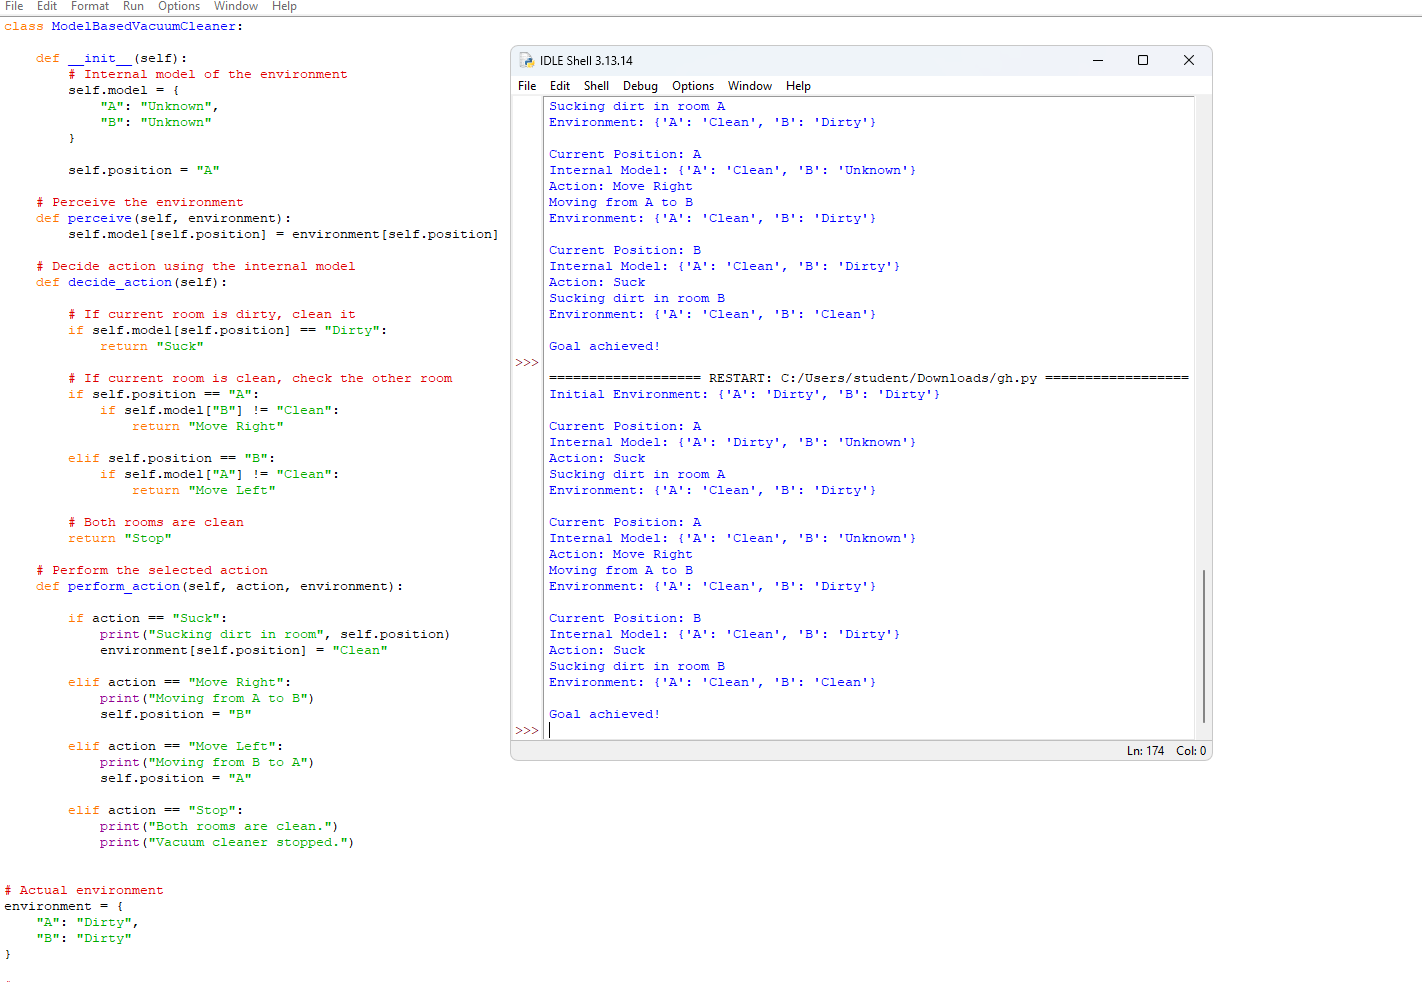
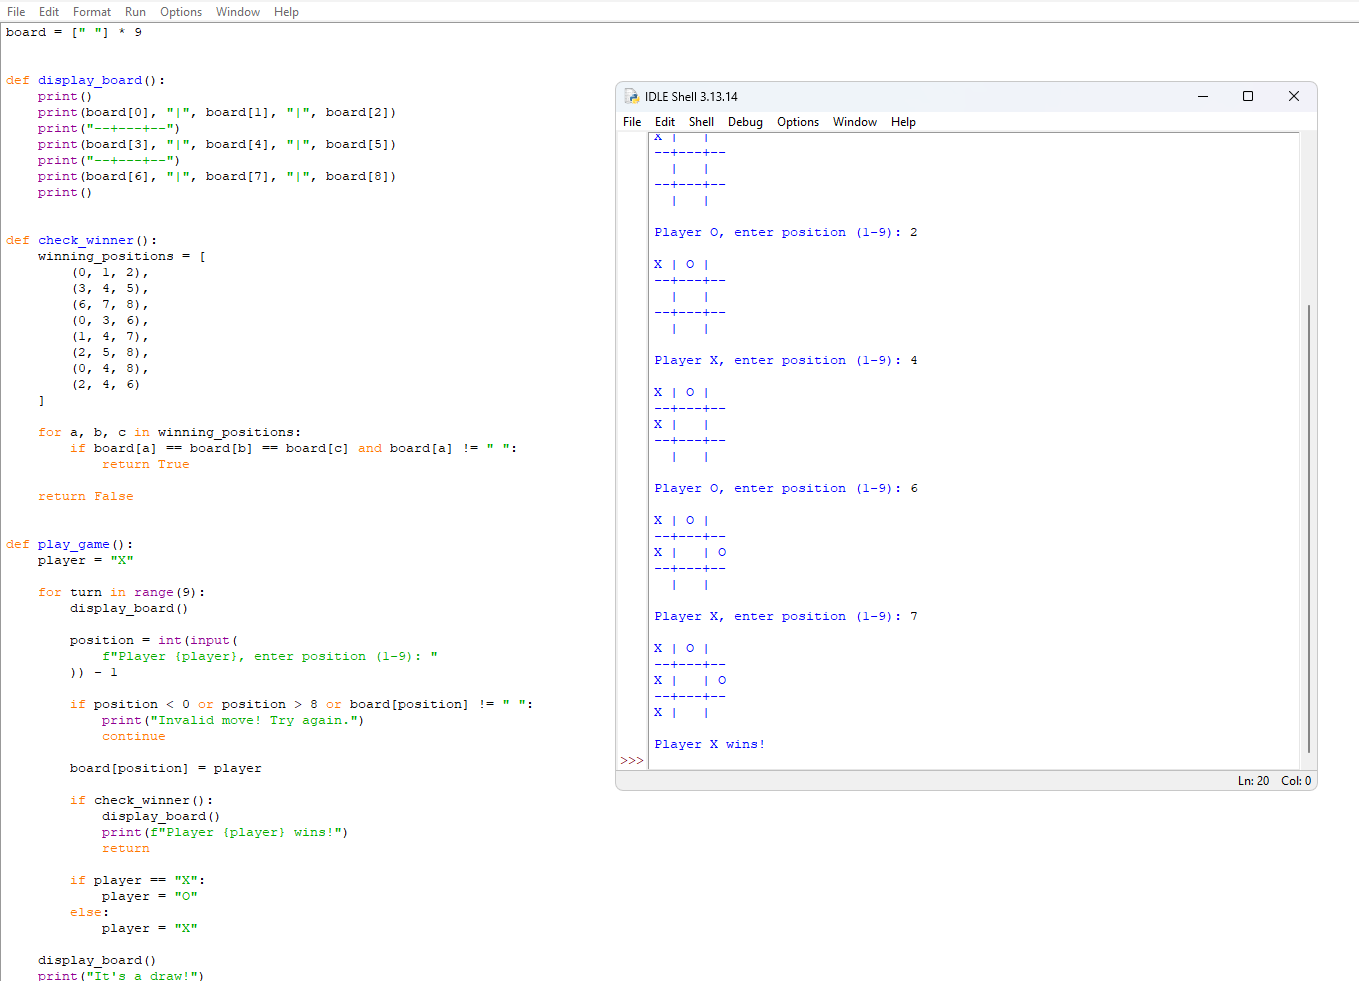
Add files via upload

diff --git a/modelbased.py b/modelbased.py
@@ -1,0 +1,90 @@
+class ModelBasedVacuumCleaner:
+
+    def __init__(self):
+        # Internal model of the environment
+        self.model = {
+            "A": "Unknown",
+            "B": "Unknown"
+        }
+
+        self.position = "A"
+
+    # Perceive the environment
+    def perceive(self, environment):
+        self.model[self.position] = environment[self.position]
+
+    # Decide action using the internal model
+    def decide_action(self):
+
+        # If current room is dirty, clean it
+        if self.model[self.position] == "Dirty":
+            return "Suck"
+
+        # If current room is clean, check the other room
+        if self.position == "A":
+            if self.model["B"] != "Clean":
+                return "Move Right"
+
+        elif self.position == "B":
+            if self.model["A"] != "Clean":
+                return "Move Left"
+
+        # Both rooms are clean
+        return "Stop"
+
+    # Perform the selected action
+    def perform_action(self, action, environment):
+
+        if action == "Suck":
+            print("Sucking dirt in room", self.position)
+            environment[self.position] = "Clean"
+
+        elif action == "Move Right":
+            print("Moving from A to B")
+            self.position = "B"
+
+        elif action == "Move Left":
+            print("Moving from B to A")
+            self.position = "A"
+
+        elif action == "Stop":
+            print("Both rooms are clean.")
+            print("Vacuum cleaner stopped.")
+
+
+# Actual environment
+environment = {
+    "A": "Dirty",
+    "B": "Dirty"
+}
+
+# Create vacuum cleaner
+vacuum = ModelBasedVacuumCleaner()
+
+print("Initial Environment:", environment)
+print()
+
+# Continue until both rooms are clean
+while True:
+
+    # 1. Perceive
+    vacuum.perceive(environment)
+
+    print("Current Position:", vacuum.position)
+    print("Internal Model:", vacuum.model)
+
+    # 2. Decide
+    action = vacuum.decide_action()
+
+    print("Action:", action)
+
+    # 3. Perform action
+    vacuum.perform_action(action, environment)
+
+    print("Environment:", environment)
+    print()
+
+    # 4. Stop only when both rooms are clean
+    if environment["A"] == "Clean" and environment["B"] == "Clean":
+        print("Goal achieved!")
+        break

diff --git a/tictactoe.py b/tictactoe.py
@@ -1,0 +1,63 @@
+board = [" "] * 9
+
+
+def display_board():
+    print()
+    print(board[0], "|", board[1], "|", board[2])
+    print("--+---+--")
+    print(board[3], "|", board[4], "|", board[5])
+    print("--+---+--")
+    print(board[6], "|", board[7], "|", board[8])
+    print()
+
+
+def check_winner():
+    winning_positions = [
+        (0, 1, 2),
+        (3, 4, 5),
+        (6, 7, 8),
+        (0, 3, 6),
+        (1, 4, 7),
+        (2, 5, 8),
+        (0, 4, 8),
+        (2, 4, 6)
+    ]
+
+    for a, b, c in winning_positions:
+        if board[a] == board[b] == board[c] and board[a] != " ":
+            return True
+
+    return False
+
+
+def play_game():
+    player = "X"
+
+    for turn in range(9):
+        display_board()
+
+        position = int(input(
+            f"Player {player}, enter position (1-9): "
+        )) - 1
+
+        if position < 0 or position > 8 or board[position] != " ":
+            print("Invalid move! Try again.")
+            continue
+
+        board[position] = player
+
+        if check_winner():
+            display_board()
+            print(f"Player {player} wins!")
+            return
+
+        if player == "X":
+            player = "O"
+        else:
+            player = "X"
+
+    display_board()
+    print("It's a draw!")
+
+
+play_game()
